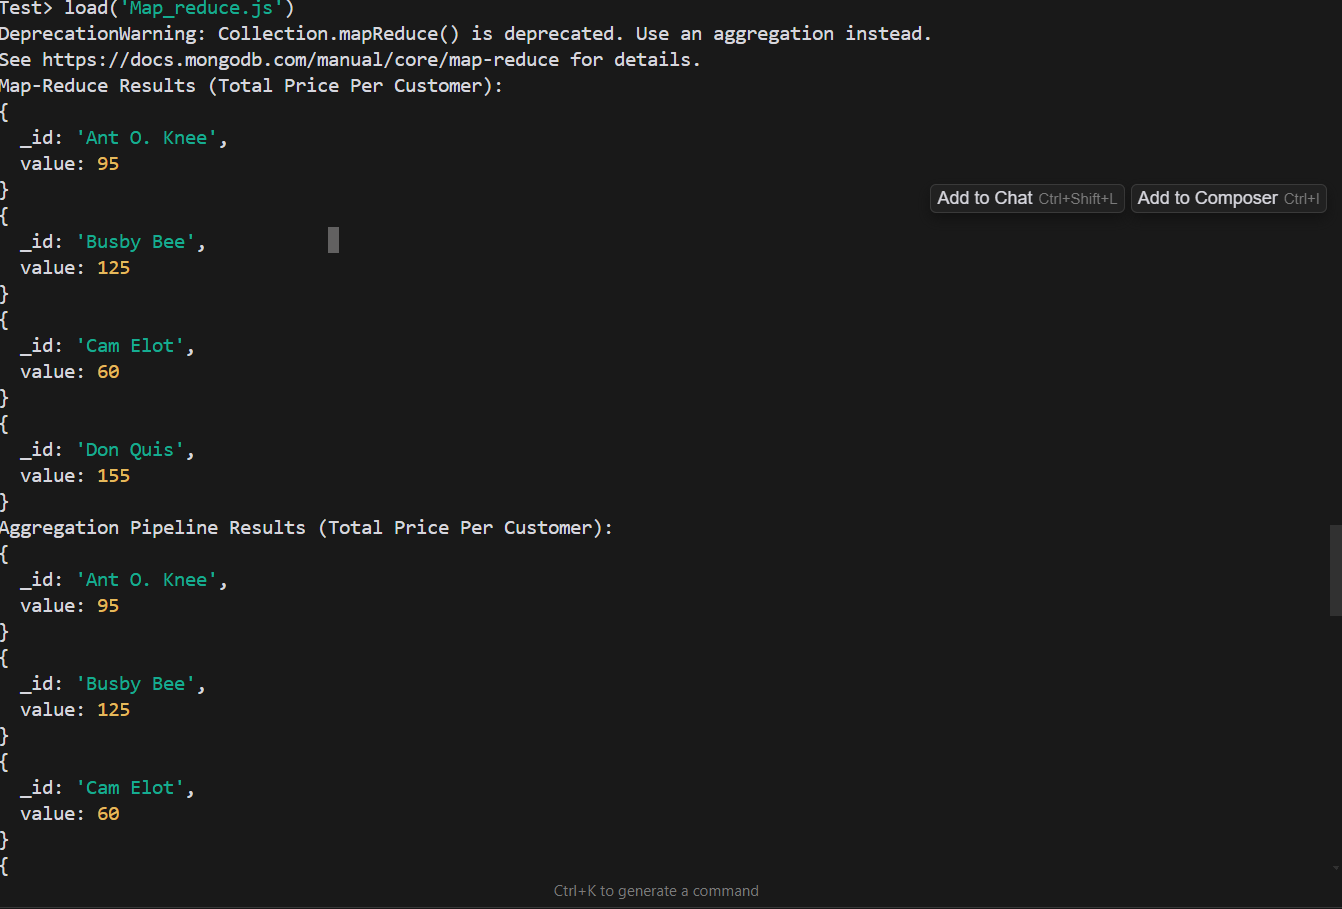
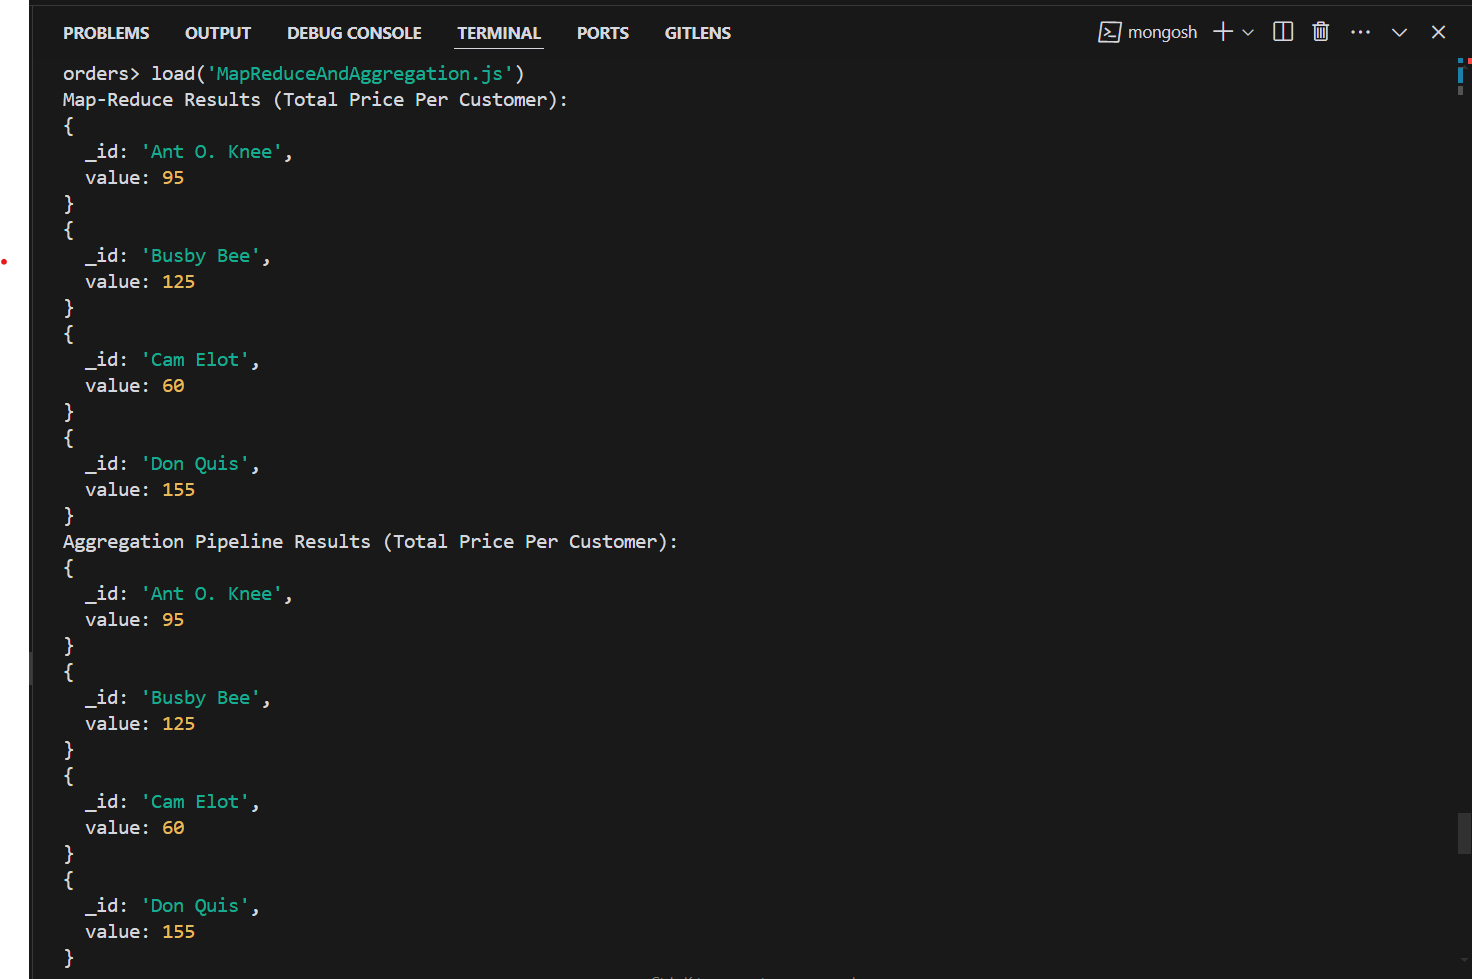
Added output.txt, and finished the report.

diff --git a/expass5.md b/expass5.md
@@ -27,4 +27,7 @@ To solve these tasks I used MongoSH together with Mongo Compass. For some of the
 ![Image 9](./Pictures/Average_Aggregation_pipeline.png)
 
 
-* In experiment 2 we 
+* In experiment 2 we show screenshots from the file MapReduceAndAggregation.js, which also is in the same folder as this one. This file was run in mongosh, and the file is containing two examples, which both are solved using map reduce and aggregation. We get the same result in both cases. The output is saved to the file output.txt. 
+* The Map reduce function is useful because it allows us to group data by various fields and the perform calculations on the grouped data. In many cases we are interested in a subgroup of the data. 
+* In the first example we calculate the total price for each customer. Total price for each customer is useful to know for a business, because it helps the business to know which customers are important and how to adjust their sales strategy based on more information.
+* In the second example we calculate the average price for each product, based on orders on or after 2020-03-01. This is displayed together with the count and the qantity of each product. Count means how many orders the product is a part of, while the quantity are the total products of this type in all orders. This is useful for a business to know because it helps to them to understand which products are selling the most in a certain period of time. This can be used to adapt their sales strategy to be even better.     
